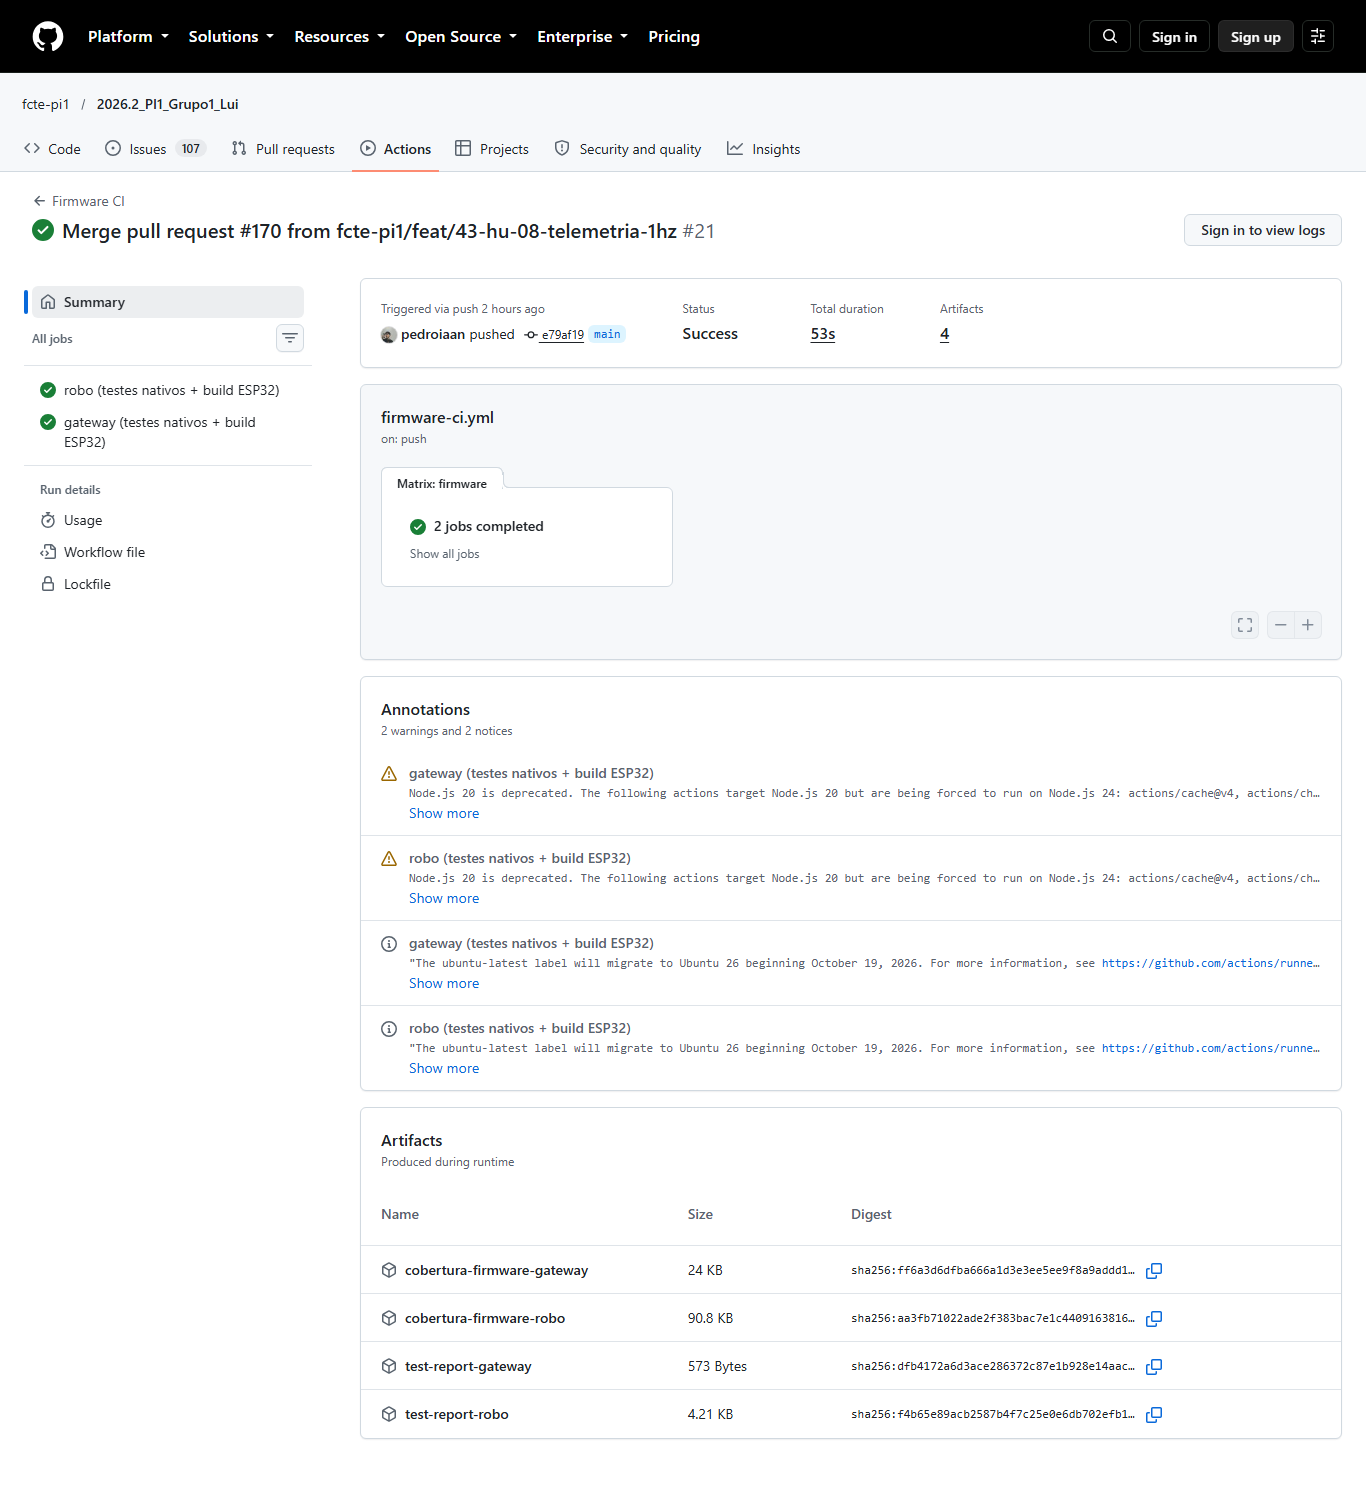
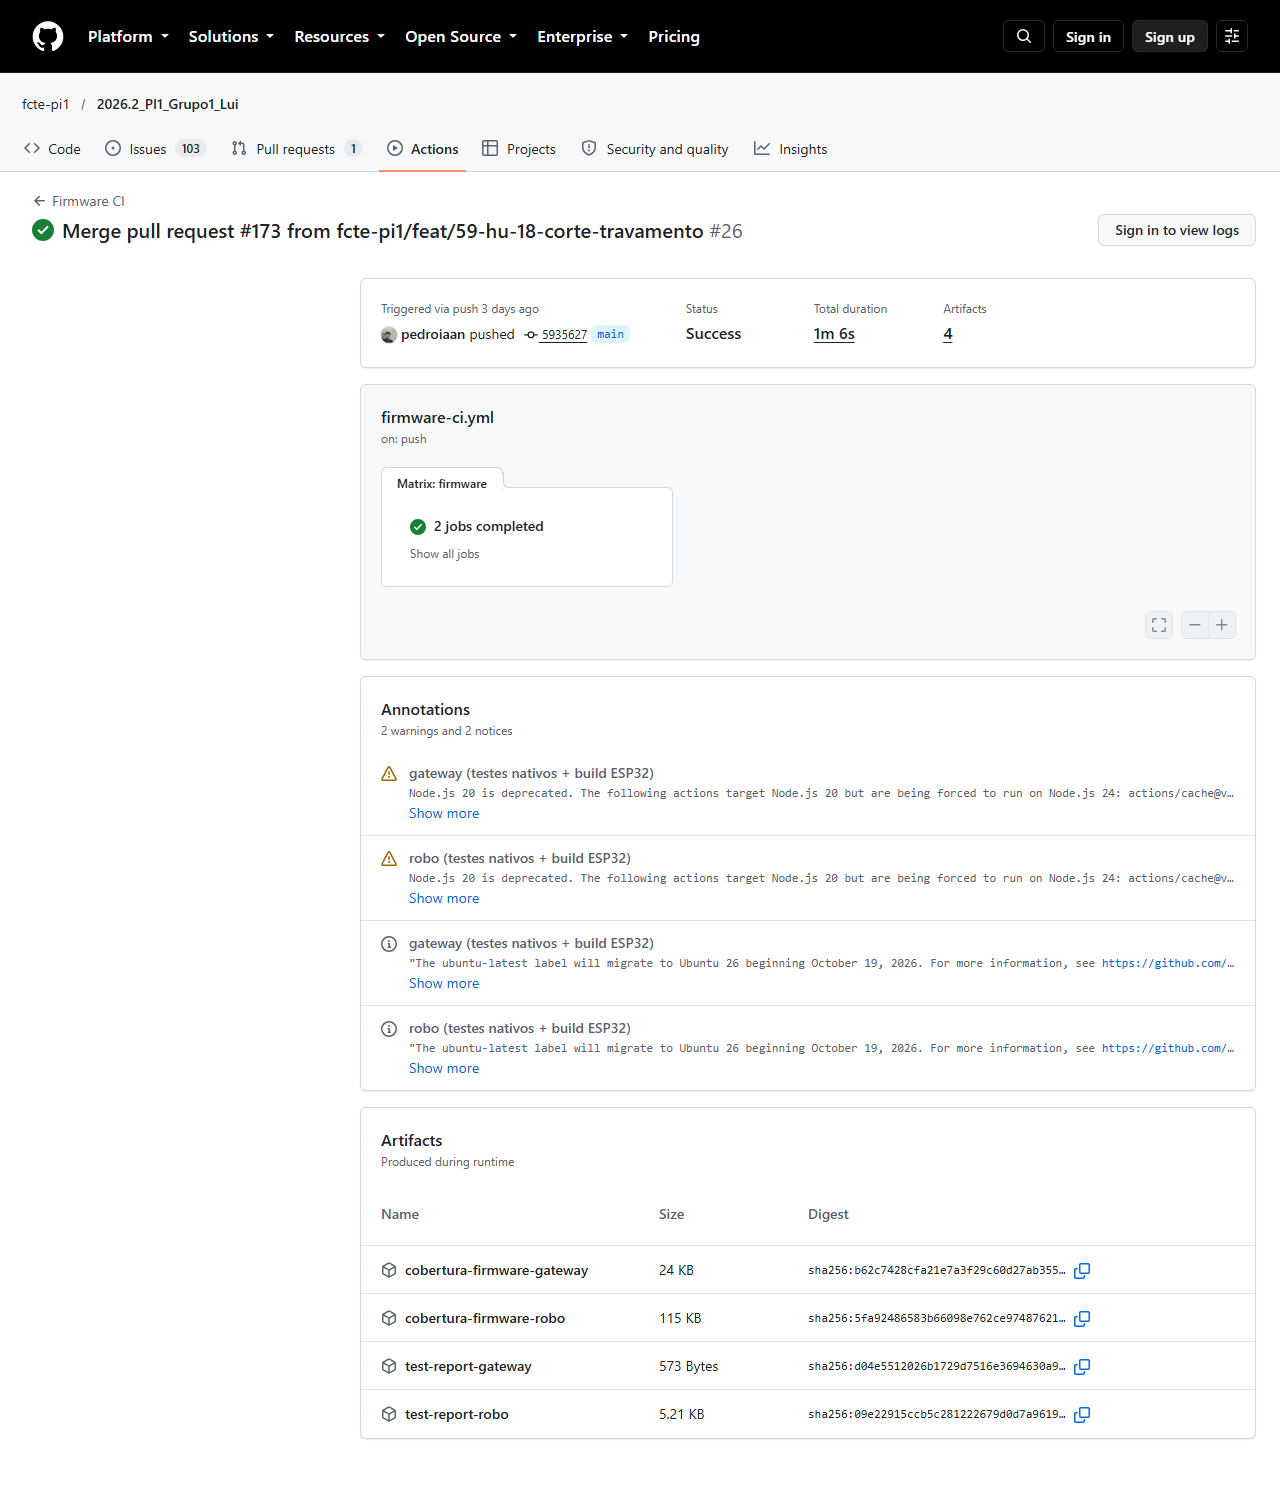
docs(#144): atualiza as evidências dos testes de software (cobertura, CI, E2E e painel com o simulador)

diff --git a/docs/evidencias/5.3.2.2/README.md b/docs/evidencias/5.3.2.2/README.md
@@ -1,26 +1,34 @@
 # Evidências: EAP 5.3.2.2 (Relatório de testes de software, doc 7.4)
 
-Prints gerados em 21/10/2026, sobre o *commit* `60a364a` da `main`, usados no [doc 7.4](../../7.4%20-%20Testes%20de%20software.md).
+Prints gerados em 25/10/2026, sobre o *commit* `85fa9d1` da `main`, usados no [doc 7.4](../../7.4%20-%20Testes%20de%20software.md). Substituem os prints de 21/10/2026, com os mesmos nomes de arquivo.
 
 ## Cobertura dos testes unitários e de integração
 
 | Evidência | Arquivo | Resultado |
 |:---|:---|:---|
-| Relatório gcovr do firmware do robô | [cobertura_firmware_robo.png](cobertura_firmware_robo.png) | 176 testes; 96,5% das linhas, 100% das funções, 90,4% dos ramos |
+| Relatório gcovr do firmware do robô | [cobertura_firmware_robo.png](cobertura_firmware_robo.png) | 222 testes; 96,9% das linhas, 98,1% das funções, 91,4% dos ramos |
 | Relatório gcovr do firmware do gateway | [cobertura_firmware_gateway.png](cobertura_firmware_gateway.png) | 6 testes; 97,4% das linhas, 100% das funções, 76,8% dos ramos |
 | Relatório pytest-cov do backend | [cobertura_backend.png](cobertura_backend.png) | 222 testes; 99% de cobertura total |
-| Relatório Vitest do frontend, por pasta | [cobertura_frontend.png](cobertura_frontend.png) | 107 testes; 87,4% das linhas, 82,4% dos ramos, 76,1% das funções |
-| Relatório Vitest dos componentes do frontend | [cobertura_frontend_componentes.png](cobertura_frontend_componentes.png) | `Painel.jsx` e indicadores sem teste de componente (0%) |
+| Relatório Vitest do frontend, por pasta | [cobertura_frontend.png](cobertura_frontend.png) | 132 testes; 89,5% das linhas, 86,4% dos ramos, 76,8% das funções |
+| Relatório Vitest dos componentes do frontend | [cobertura_frontend_componentes.png](cobertura_frontend_componentes.png) | `Painel.jsx` e três indicadores sem teste de componente (0%); `IndicadorStatus` com 100% |
 
-## Integração contínua (GitHub Actions)
-
-Prints sem login no GitHub: mostram o resultado, os *jobs* e os artefatos de cobertura, mas não a tabela de cobertura do resumo, visível só para usuários autenticados.
+## Testes E2E
 
 | Evidência | Arquivo | Resultado |
 |:---|:---|:---|
-| Firmware CI, execução #21 (`e79af19`) | [ci_execucao_firmware.png](ci_execucao_firmware.png) | Aprovado |
-| Backend CI (`4f9570d`) | [ci_execucao_backend.png](ci_execucao_backend.png) | Aprovado |
-| Frontend CI, execução #13 (`d194ed2`) | [ci_execucao_frontend.png](ci_execucao_frontend.png) | Aprovado |
+| Relatório HTML do Playwright, execução local com a correção do PR #177 | [relatorio_e2e_playwright.png](relatorio_e2e_playwright.png) | 6 testes, 6 aprovados, 32,1 s |
+
+Os prints e o vídeo dos cenários E2E estão em [`../5.3.2.1/`](../5.3.2.1/README.md).
+
+## Integração contínua (GitHub Actions)
+
+Prints sem login no GitHub: mostram o resultado, os *jobs* e os artefatos, mas não a tabela de cobertura do resumo, visível só para usuários autenticados.
+
+| Evidência | Arquivo | Resultado |
+|:---|:---|:---|
+| Firmware CI, execução #26 (`5935627`) | [ci_execucao_firmware.png](ci_execucao_firmware.png) | Aprovado |
+| Backend CI, execução #10 (`4f9570d`) | [ci_execucao_backend.png](ci_execucao_backend.png) | Aprovado |
+| Frontend CI, execução #19 (`85fa9d1`) | [ci_execucao_frontend.png](ci_execucao_frontend.png) | Aprovado, com o *job* de testes E2E e o artefato `relatorio-e2e` |
 
 ## Painel com o simulador
 
@@ -37,5 +45,4 @@ Backend com `TELEMETRIA_FONTE=simulador` e `SIMULADOR_VELOCIDADE=4`, painel no n
 
 ## Pendente
 
-- Prints e relatório dos testes E2E com Playwright (issue #143).
 - Prints da tabela de cobertura no resumo dos workflows de CI, feitos com login no GitHub.
